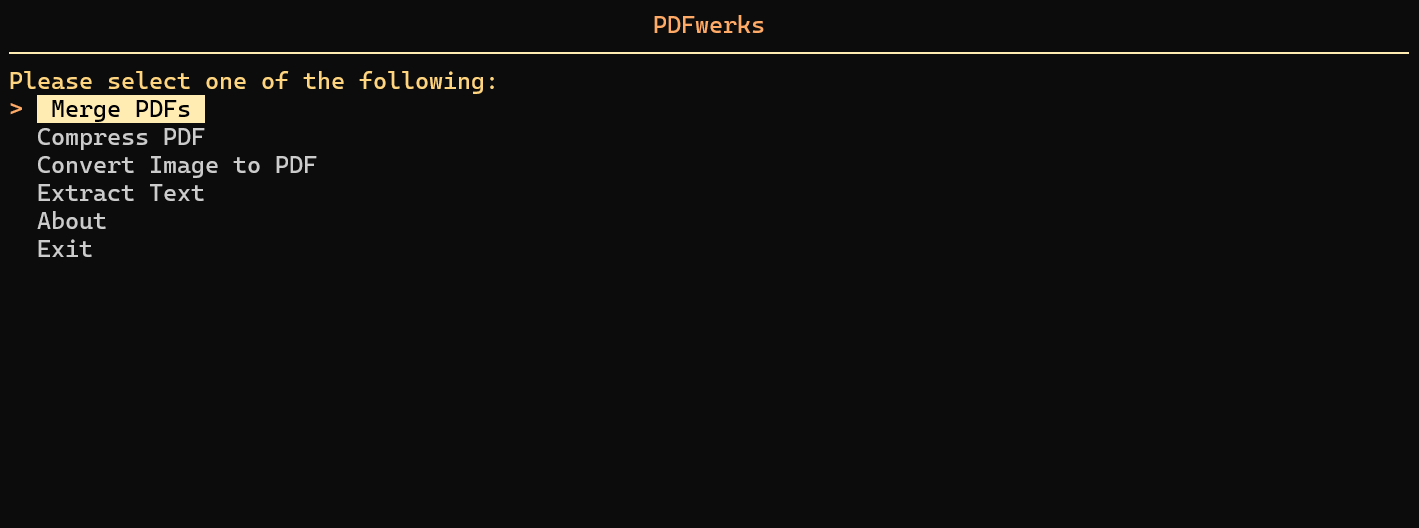
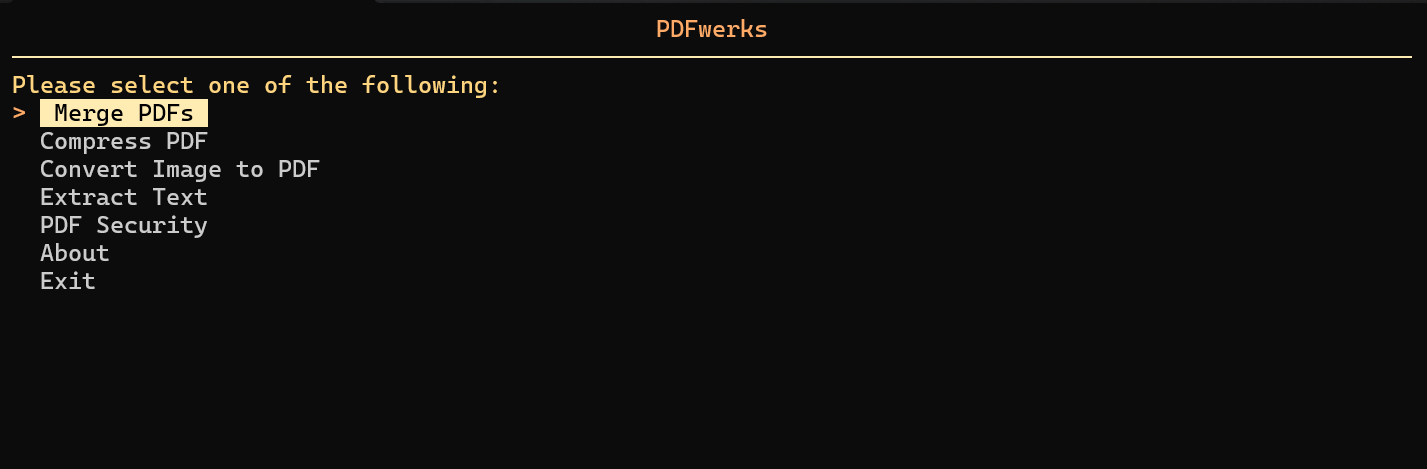
Added tests for PDF security operations

Changed region(s): [[0.0, 0.0, 0.9922, 0.6269]]

diff --git a/tests/test_pdf_security.py b/tests/test_pdf_security.py
@@ -1,0 +1,148 @@
+import fitz
+import pytest
+import pikepdf
+
+from pdfwerks.core.pdf_tools import PDFTools
+
+
+def create_test_pdf(tmp_path):
+    pdf_path = tmp_path / "test.pdf"
+    pdf = fitz.open()
+    page = pdf.new_page()
+    page.insert_text((100, 100), "Some content to test PDF Security Operations")
+    pdf.save(pdf_path)
+    pdf.close()
+    return str(pdf_path)
+
+
+@pytest.fixture
+def test_pdf(tmp_path):
+    return create_test_pdf(tmp_path)
+
+
+def test_enable_pdf_encryption(test_pdf):
+    tool = PDFTools()
+    password = "test"
+    tool.enable_pdf_encryption(test_pdf, password)
+    assert tool.generated_file is not None
+
+    with pytest.raises(ValueError, match="PDF is already password protected"):
+        tool.enable_pdf_encryption(tool.generated_file, password)
+    
+    with pytest.raises(pikepdf.PasswordError):
+        with pikepdf.open(filename_or_stream=tool.generated_file) as pdf:
+            pass
+    
+    with fitz.open(stream=tool.generated_file.getvalue(), filetype="pdf") as pdf:
+        assert pdf.needs_pass
+        pdf.authenticate(password)
+        assert "Some content to test PDF Security Operations" in pdf[0].get_text()
+
+
+def test_disable_pdf_encryption(test_pdf):
+    tool = PDFTools()
+    password = "test"
+    tool.enable_pdf_encryption(test_pdf, password)
+    encrypted_pdf = tool.generated_file
+    
+    with pytest.raises(ValueError, match="Incorrect password"):
+        tool.disable_pdf_encryption(encrypted_pdf, "randompwd")
+    
+    tool.disable_pdf_encryption(encrypted_pdf, password)
+    assert tool.generated_file is not None
+    
+    with fitz.open(stream=tool.generated_file.getvalue(), filetype="pdf") as pdf:
+        assert "Some content to test PDF Security Operations" in pdf[0].get_text()
+
+
+def test_update_pdf_password(test_pdf):
+    tool = PDFTools()
+    old_pwd = "oldpwd"
+    new_pwd = "newpwd"
+    tool.enable_pdf_encryption(test_pdf, old_pwd)
+    encrypted_pdf = tool.generated_file
+    
+    with pytest.raises(ValueError, match="Incorrect password"):
+        tool.update_pdf_password(encrypted_pdf, "wrongpwd", new_pwd)
+    
+    tool.update_pdf_password(encrypted_pdf, old_pwd, new_pwd)
+    assert tool.generated_file is not None
+    
+    with pytest.raises(pikepdf.PasswordError):
+        with pikepdf.open(filename_or_stream=tool.generated_file) as pdf:
+            pass
+    
+    with pikepdf.open(filename_or_stream=tool.generated_file, password=new_pwd) as pdf:
+        assert len(pdf.pages) == 1
+        
+    with fitz.open(stream=tool.generated_file.getvalue(), filetype="pdf") as pdf:
+        assert pdf.needs_pass
+        pdf.authenticate(new_pwd)
+        assert "Some content to test PDF Security Operations" in pdf[0].get_text()
+
+
+def test_enable_encryption_on_encrypted_pdf(test_pdf):
+    tool = PDFTools()
+    password = "test"
+    tool.enable_pdf_encryption(test_pdf, password)
+    encrypted_pdf = tool.generated_file
+
+    with pytest.raises(ValueError, match="PDF is already password protected"):
+        tool.enable_pdf_encryption(encrypted_pdf, "pwd")
+
+
+def test_disable_encryption_on_unencrypted_pdf(test_pdf):
+    tool = PDFTools()
+    with pytest.raises(ValueError, match="PDF is not password protected"):
+        tool.disable_pdf_encryption(test_pdf, "pwd")
+
+
+def test_update_password_on_unencrypted_pdf(test_pdf):
+    tool = PDFTools()
+    with pytest.raises(ValueError, match="PDF is not password protected"):
+        tool.update_pdf_password(test_pdf, "oldpwd", "newpwd")
+
+
+def test_encryption_with_empty_password(test_pdf):
+    tool = PDFTools()
+    with pytest.raises(ValueError, match="Password can't be empty"):
+        tool.enable_pdf_encryption(test_pdf, "")
+
+
+def test_disable_encryption_with_empty_password(test_pdf):
+    tool = PDFTools()
+    password = "test"
+    tool.enable_pdf_encryption(test_pdf, password)
+    encrypted_pdf = tool.generated_file
+    
+    with pytest.raises(ValueError, match="Password can't be empty"):
+        tool.disable_pdf_encryption(encrypted_pdf, "")
+
+
+def test_update_password_with_empty_passwords(test_pdf):
+    tool = PDFTools()
+    password = "test"
+    tool.enable_pdf_encryption(test_pdf, password)
+    encrypted_pdf = tool.generated_file
+    
+    with pytest.raises(ValueError, match="Password can't be empty"):
+        tool.update_pdf_password(encrypted_pdf, "", "newpwd")
+    
+    with pytest.raises(ValueError, match="Password can't be empty"):
+        tool.update_pdf_password(encrypted_pdf, password, "")
+    
+    with pytest.raises(ValueError, match="Password can't be empty"):
+        tool.update_pdf_password(encrypted_pdf, "", "")
+
+
+def test_encryption_with_special_chars(test_pdf):
+    tool = PDFTools()
+    password = "!@#$%^&*()_+"
+    tool.enable_pdf_encryption(test_pdf, password)
+    encrypted_pdf = tool.generated_file
+    
+    tool.disable_pdf_encryption(encrypted_pdf, password)
+    assert tool.generated_file is not None
+    
+    with fitz.open(stream=tool.generated_file.getvalue(), filetype="pdf") as pdf:
+        assert "Some content to test PDF Security Operations" in pdf[0].get_text()

diff --git a/pdfwerks/core/pdf_tools.py b/pdfwerks/core/pdf_tools.py
@@ -178,6 +178,8 @@ class PDFTools:
         self.generated_file.seek(0)
     
     def disable_pdf_encryption(self, file, pwd):
+        if not pwd:
+            raise ValueError("Password can't be empty")
         if not self._is_pdf_encrypted(file):
             raise ValueError("PDF is not password protected")
 
@@ -194,6 +196,8 @@ class PDFTools:
         progress.run(process_file)
     
     def enable_pdf_encryption(self, file, pwd):
+        if not pwd:
+            raise ValueError("Password can't be empty")
         if self._is_pdf_encrypted(file):
             raise ValueError("PDF is already password protected")
 
@@ -213,6 +217,8 @@ class PDFTools:
         progress.run(process_file)
 
     def update_pdf_password(self, file, old_pwd, new_pwd):
+        if not old_pwd or not new_pwd:
+            raise ValueError("Password can't be empty")
         self.disable_pdf_encryption(file, old_pwd)
         self.generated_file.seek(0)
         self.enable_pdf_encryption(self.generated_file, new_pwd)
